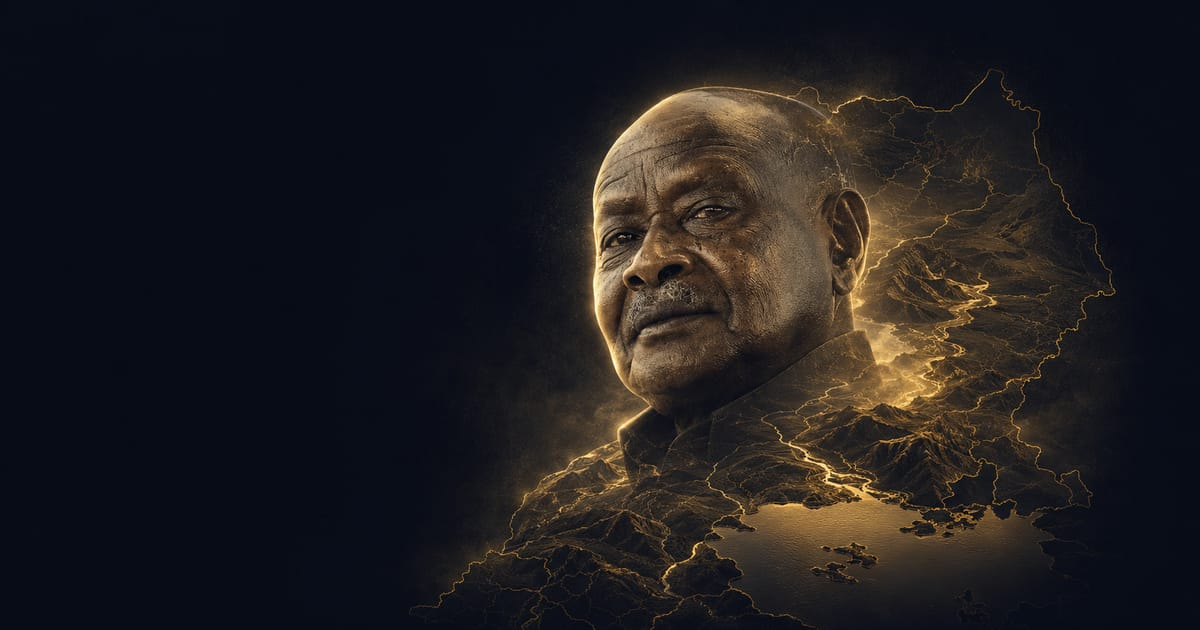
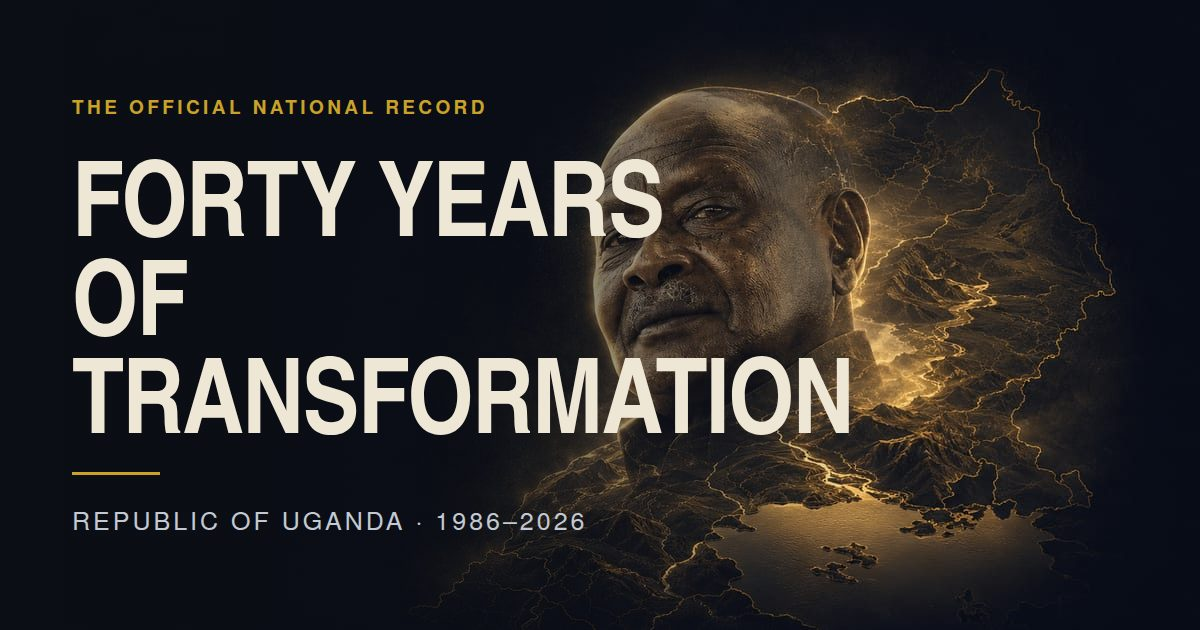
Polish: designed OG card, filmstrip mobile wrapping, README handover
Claude-Session: https://claude.ai/code/session_01Lg3pQgS8K9aqGJ4U6VeZkD

diff --git a/README.md b/README.md
@@ -1,0 +1,87 @@
+# Forty Years of Transformation · Republic of Uganda · 1986–2026
+
+The official 40-year legacy website of the Republic of Uganda — one continuous
+cinematic scroll, ten chapters, told as **evidence, not decoration**. Swiss /
+International Typographic Style at national-institution grade: navy ground,
+cream ledger, one gold accent, one typeface, a hard grid, and a gold
+**transformation spine** that draws itself from 1986 to 2026 as you scroll.
+
+**Live site source:** `/site` (Astro 7, statically exported)
+**Asset intake report:** [`ASSETS.md`](./ASSETS.md) — inventory, rename map, optimisation, gap report
+**Concept source of truth:** Notion — “Forty Years of Transformation” section plan (mirrored in `/content-notion`)
+
+---
+
+## The ten chapters
+
+| # | Chapter | Treatment |
+|---|---|---|
+| 01 | Opening | Dark hero (portrait fused with gold national topography), word-by-word title reveal, five-figure strip, scroll-spy rail, spine origin |
+| 02 | The Inheritance | Sober archival evidence: letterboxed 1986 title card, the three ruins as ledger rows ($330 · 60 MW · 56%) |
+| 03 | The National Ledger | Cream paper plate, five approved figures as giant tabular numerals with gold rules, count-up once on enter, each linked to `/sources` |
+| 04 | The Journey | Pinned, scrub-driven era sequence — era imagery masked **inside the accurate national silhouette**; six eras 1986 → Beyond |
+| 05 | Achievements | Six editorial pillar bands, alternating alignment, facts as hairline rows (never icon cards) |
+| 06 | The Regions | Accurate SVG map as interface; four keyboard-selectable regional nodes; gold district lines draw on selection |
+| 07 | Voices | Museum testimony at display size, engraved-portrait plate, disclosed as representative pending PPU attribution |
+| 08 | In Pictures | Archive filmstrip: letterbox bars, `FRAME 001 · UGANDA · 1986–2026` stamps, drag + wheel + arrow keys, Ken Burns on the active frame only |
+| 09 | What’s Next | Dawn plate; eight capacities as a numbered ledger; Vision 2040 quote |
+| 10 | The Record Continues | Cream ceremonial close; 40-tick seal draws on enter; spine terminates at 2026 |
+
+Plus: `/sources` (provenance ledger for every figure and image), `/accessibility`
+(statement + language slots), `/downloads` (print-edition PDF + media pack), and
+a ceremonial 404.
+
+## Stack
+
+- **Astro 7** static export · **Tailwind 4** (tokens as CSS vars in `site/src/styles/global.css`)
+- **Islands:** React-compatible JSX via `@astrojs/preact` (`compat: true`) — chosen over React to hold the island-JS budget (~4KB vs ~46KB gz runtime). The Regions map is a hydrated island; spine/ledger/journey/filmstrip are zero-hydration vanilla TS modules.
+- **GSAP + ScrollTrigger** (pinned journey, scrubbed spine) · **Lenis** (lerp 0.1, one shared rAF)
+- **Type:** TeX Gyre Heros + Heros Cn (GUST Font Licence — the URW Nimbus Sans lineage of Helvetica), subset to ~22KB WOFF2 each, self-hosted; platform Helvetica Neue takes over where the OS provides it. No commercial font files are distributed.
+- **Content:** typed collections in `site/src/content/en/*.json` (zod schemas in `content.config.ts`). i18n-ready — add `lg/` or `sw/` sibling directories to publish Luganda/Swahili editions.
+
+## Performance (measured at build)
+
+- Island JS **≈63KB gz** total (budget <90KB) · CSS ≈8KB gz · HTML ≈28KB gz
+- Hero AVIF **57KB** at 1672w (budget <120KB); photos ≤90KB at served widths
+- Home initial transfer ≈**230KB** on desktop (budget <500KB) — fonts 3×22KB, hero AVIF, CSS/JS/HTML
+- Zero CLS: every image ships explicit `width/height` + LQIP blur-up
+- Full `prefers-reduced-motion` fallback (verified): drawn spine, final figures, static journey, no pin/parallax/Ken-Burns. The page is complete without JavaScript.
+
+## Working on the site
+
+```bash
+cd site
+npm install
+npm run dev          # local dev
+npm run build        # static build → dist/
+npm run assets       # re-run the image pipeline from /assets (sharp)
+node scripts/subset-fonts.mjs   # regenerate font subsets from fonts-src/
+node scripts/make-pdf.mjs       # re-render the print PDF (needs a prior build)
+node scripts/shoot.mjs out/     # screenshot every chapter, desktop+mobile
+```
+
+Order of operations when assets or copy change:
+`npm run assets` → `npm run build` → `node scripts/make-pdf.mjs` → `npm run build`.
+
+## Editing content
+
+All copy lives in `site/src/content/en/`:
+`stats.json` (the five approved figures — **fixed**; change only with sources
+sign-off), `eras.json`, `pillars.json`, `regions.json`, `voices.json`,
+`frames.json`, `next.json`, `sources.json`. Every entry carries an explicit
+`order` field (the loader sorts by id otherwise). Chapter shells are in
+`site/src/components/Ch*.astro`.
+
+## Deploy runbook
+
+1. **Domain:** `astro.config.mjs → site` is set to `https://fortyyears.go.ug` (placeholder — confirm with the State House digital team). Update it, then regenerate `public/sitemap.xml` and `robots.txt` hostnames to match, and rebuild.
+2. **Host:** any static host. `public/_headers` carries the CSP + security headers in Netlify/Cloudflare format — mirror on nginx/Apache if used. Immutable cache is set for `/images`, `/fonts`, `/assets`.
+3. **Analytics:** privacy-first, first-party only. The page sends `navigator.sendBeacon('/collect', …)` **only after explicit consent** (no cookies, no identifiers). Point `/collect` at any first-party endpoint (or self-hosted Plausible/umami equivalent); with nothing configured the beacon is a silent no-op.
+4. **Before public launch** (from the gap report): confirm rights for the 13 landscape photographs with the Presidential Press Unit; replace representative testimonies with attributed ones; supply human-capital photography (schools/clinics) for Pillar 04 and Voices.
+
+## Licences
+
+- TeX Gyre Heros: GUST Font Licence (`site/fonts-src/LICENSE-TeX-Gyre-Heros.txt`) — free to embed and distribute.
+- Uganda outline: derived from public-domain Natural Earth country geometry.
+- Landscape photography: supplied production archive — **rights to be confirmed before launch** (tracked on `/sources`).
+- Illustrative plates: commissioned AI-assisted generations, treated as artwork and disclosed on `/sources`; two rejected at intake (see `ASSETS.md`).
